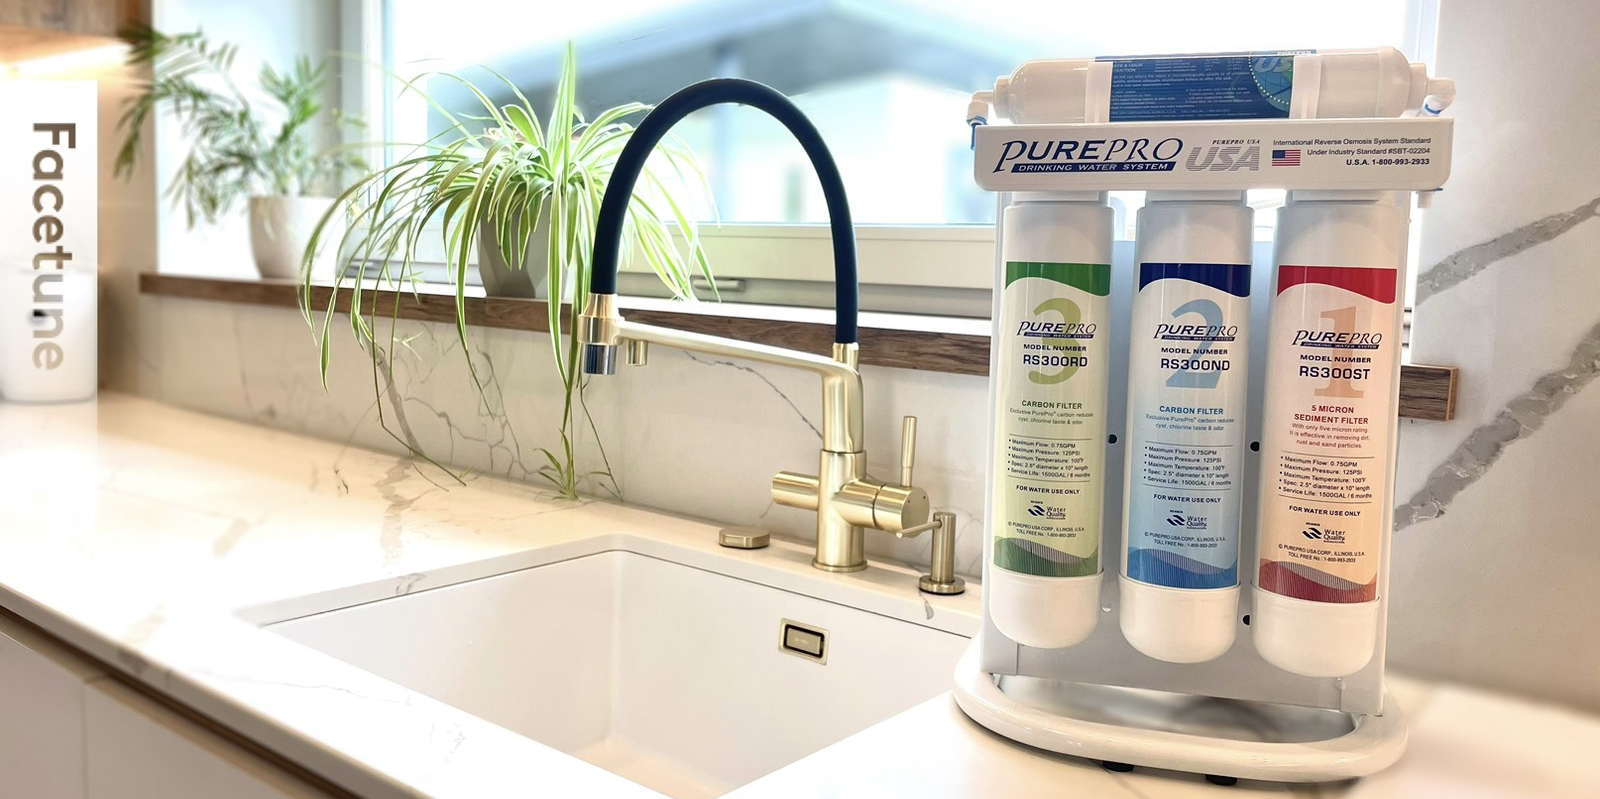
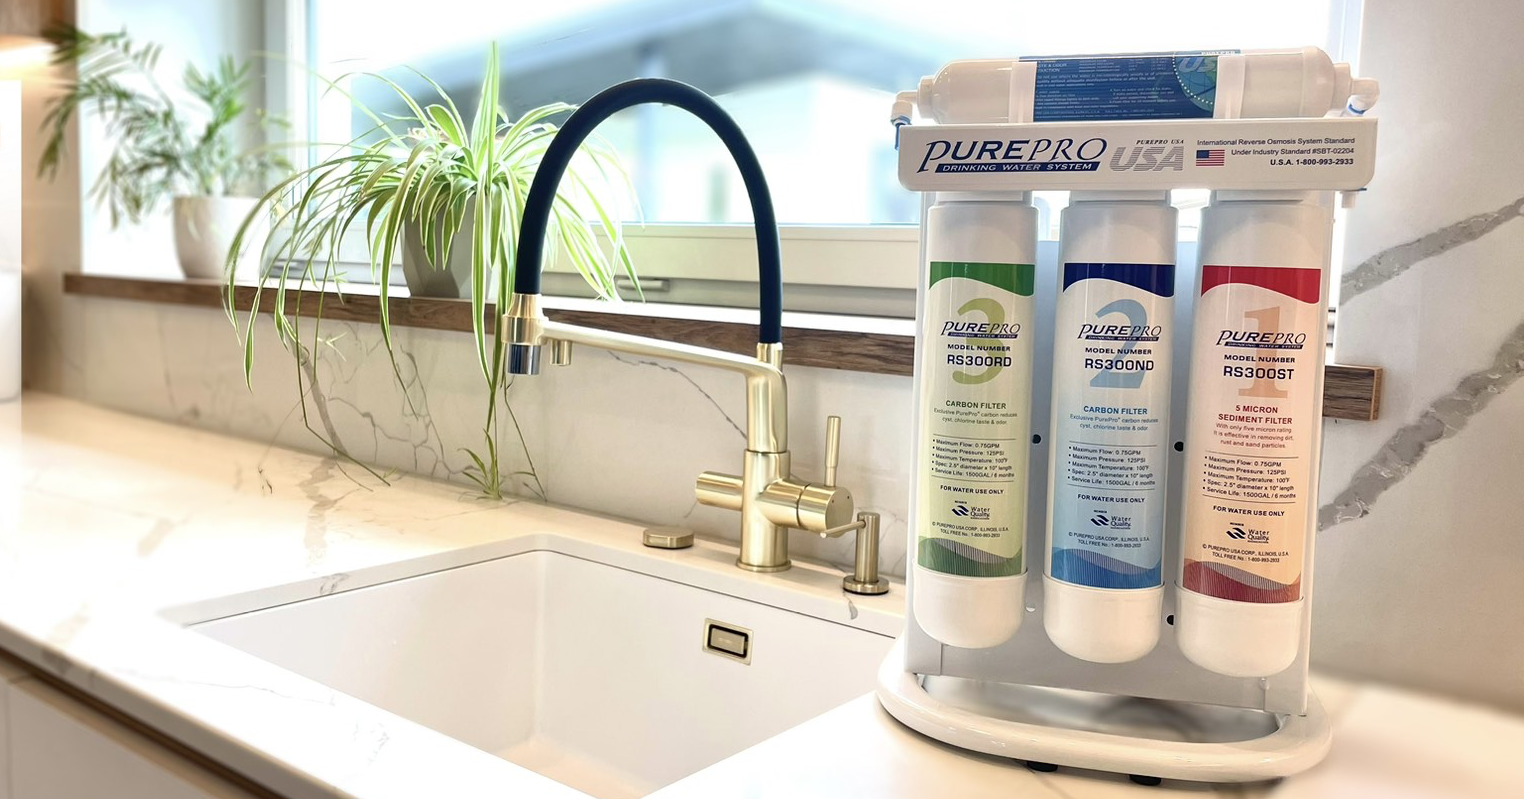
expand image in overflow image component

diff --git a/src/shared/ui/OverflowImage/OverflowImage.module.scss b/src/shared/ui/OverflowImage/OverflowImage.module.scss
@@ -19,7 +19,7 @@
 .image {
 	flex-grow: 0;
 	flex-shrink: 0;
-	max-width: 45%;
+	max-width: 50%;
 	flex-basis: 1000px;
 	transform: translateX(-100%);
 	position: relative;
